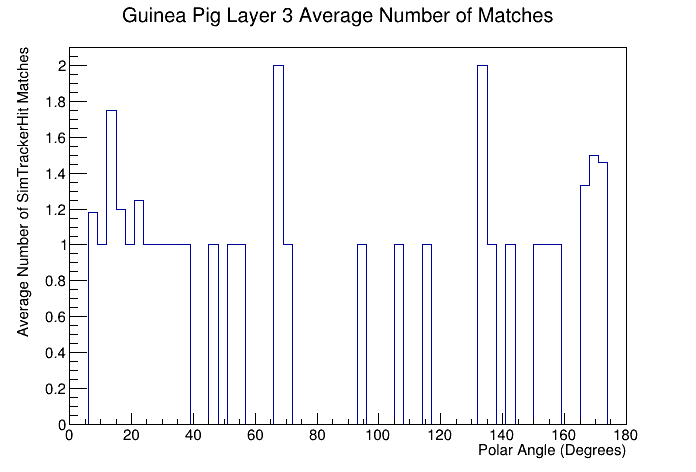
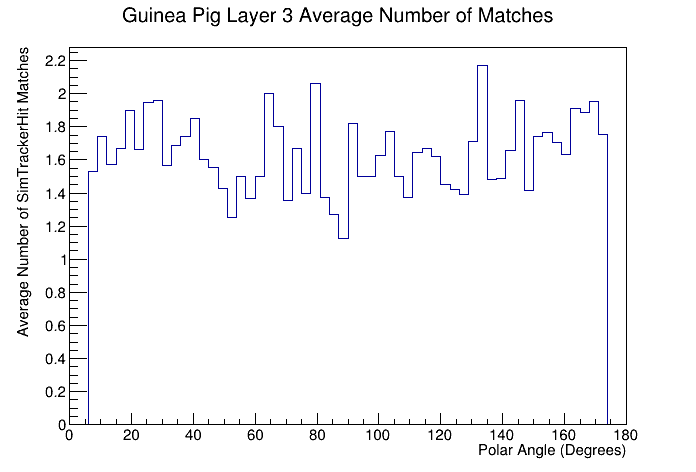
added new plots and deleted old plots

diff --git a/python/cluster_size_gp.py b/python/cluster_size_gp.py
@@ -141,7 +141,7 @@ def match_counter(particle, matches, detector_index, detector, first_hit = None,
         # else:
         delta = delta_squared(theta_i, phi_i, xi, yi, zi, hit)
 
-        if delta < 0.001:
+        if delta < 0.01:
             matches[coord] += 1
             new_hit = hit
             if first_hit is None:
@@ -158,7 +158,7 @@ def match_counter(particle, matches, detector_index, detector, first_hit = None,
 
 all_matches = {coord: {ang: [] for ang in range(0, 180, 3)} for coord in layer_radii + disk_z}
 # all_deltas = {coord: {ang: [] for ang in range(0, 180, 3)} for coord in layer_radii + disk_z}
-for i in range(10):
+for i in range(100):
     print(f"starting event {i}")
     event = events[i]
     hits = {coord: [] for coord in layer_radii + disk_z}
